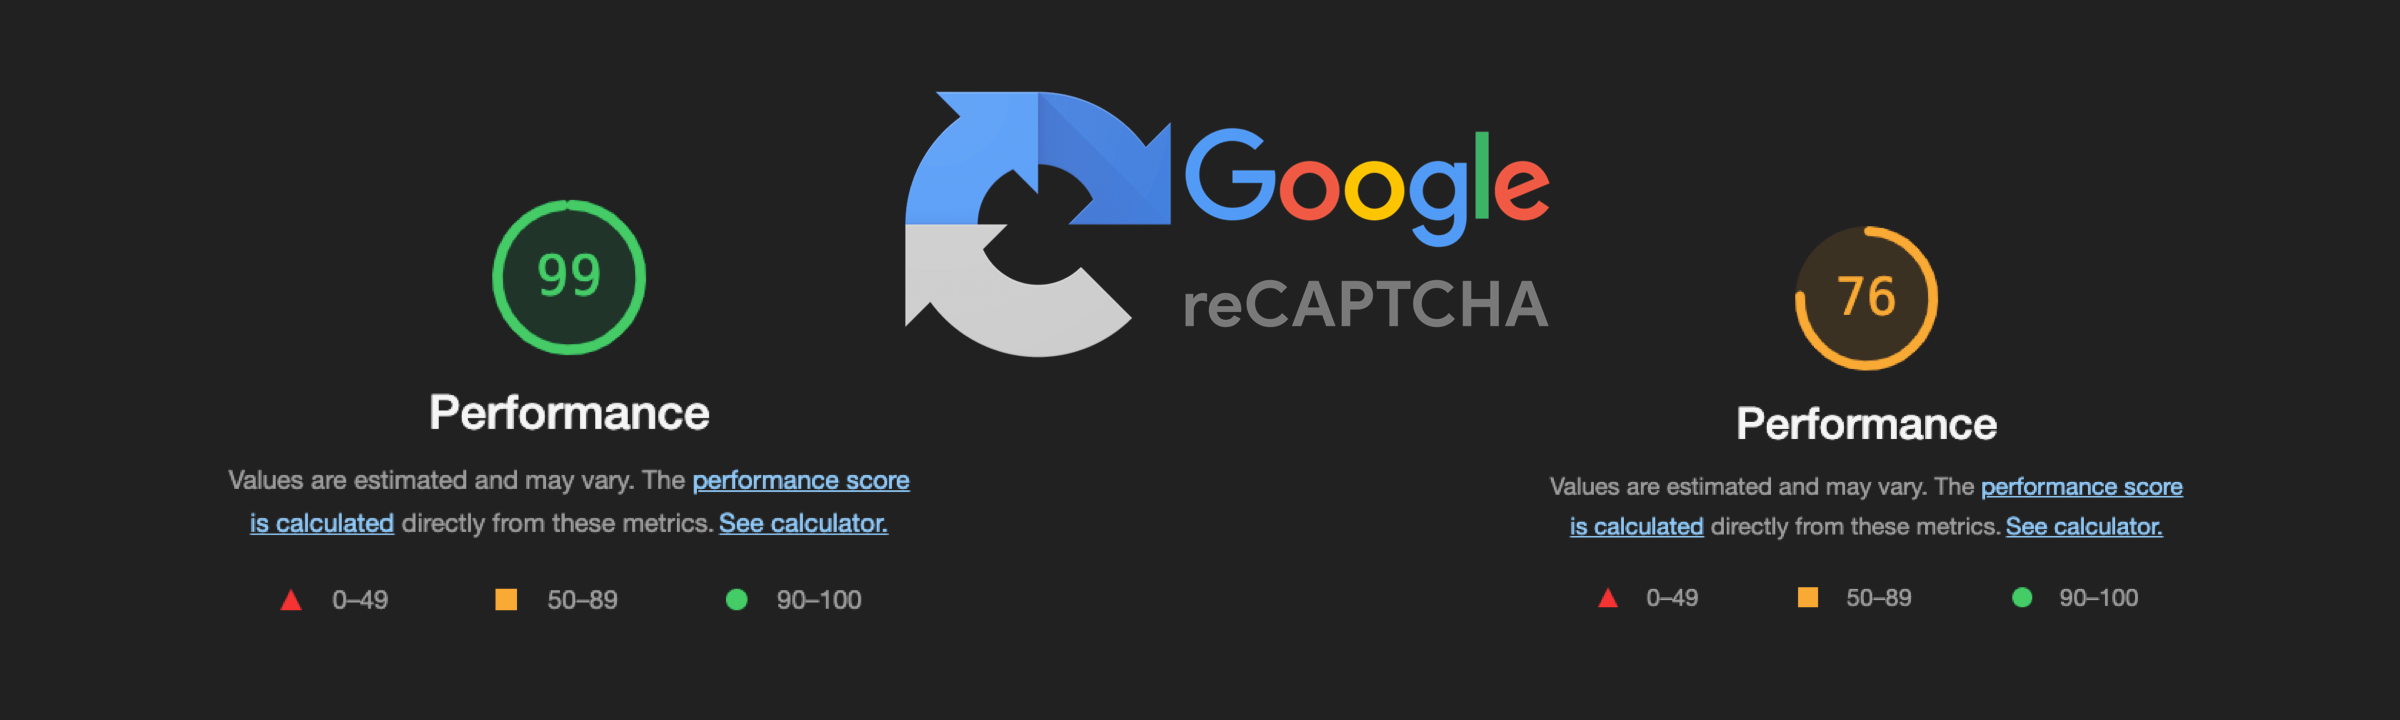
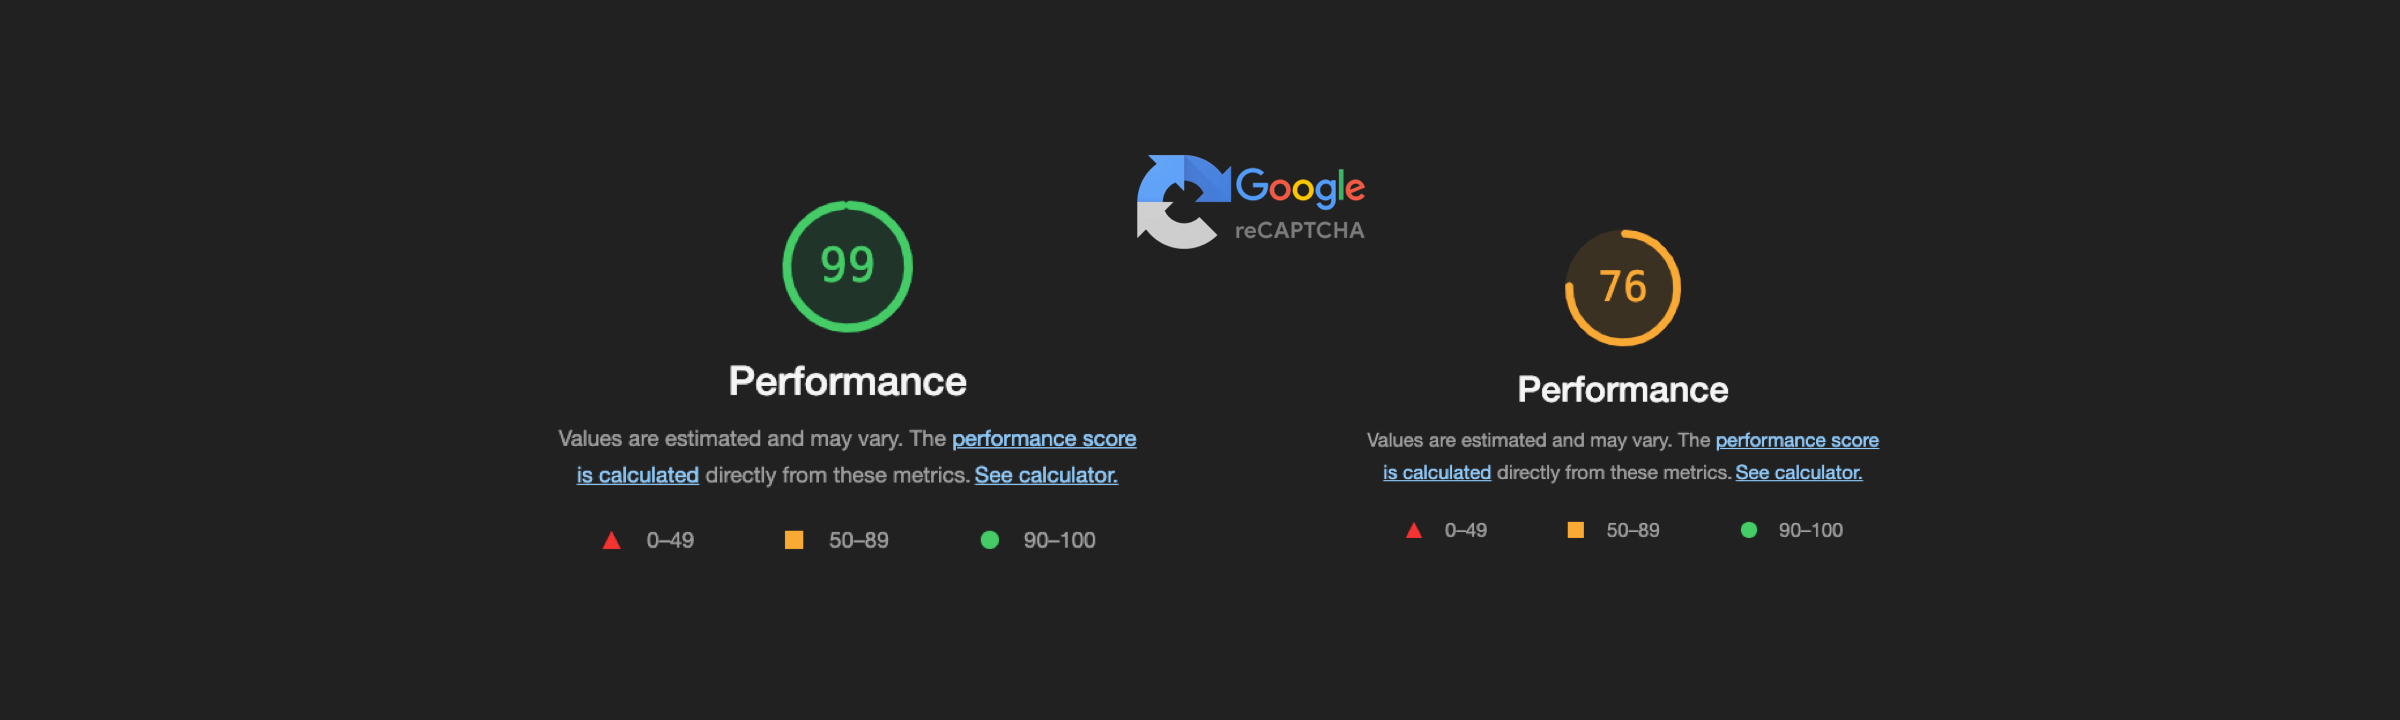
refined new post

diff --git a/_posts/2022-10-13-recaptcha-performance-analyses.md b/_posts/2022-10-13-recaptcha-performance-analyses.md
@@ -3,14 +3,14 @@ layout: post
 title:  "Does reCaptcha slow down your website?"
 author: "Onar A."
 image: /assets/posts/recaptcha/recaptcha-meta.png
-tags: [reCaptcha]
+tags: [reCaptcha, contact_form]
 
 
 description: "Let's look at how reCaptcha slows down your website and what you can do about it. Performance Analyses & Alternatives"
 # modified: 
 ---
 <center>
-<img width="772" alt="Lighthouse performance results" src="/blog/assets/posts/recaptcha/recaptcha-meta.png">
+<img width="772" alt="Lighthouse performance results" src="/blog/assets/posts/recaptcha/recaptcha-header.png">
 </center>
 <br/>
 
@@ -41,16 +41,15 @@ Using the [Lighthouse](https://web.dev/performance-scoring/) tool, we will evalu
 
 As soon as we integrate reCaptcha and setup it, we immediately notice a rise in network queries and data transfers. 
 
+|  | # of network requests | Compressed transferred data | Uncompressed transferred data | Page Loaded In |
+|---|---|---|---|---|
+| Before reCaptcha | 5 | 35.6 kB | 37.3 kB | 285 ms |
+| After reCaptcha | 13 | 565 kB | 1.3 MB | 1.56 seconds |
+| **an increase of** | **160%** | **1487.08%** | **3385.25%** | **447.37%** |
 
-|                  	| Number of network requests 	| Compressed transferred data 	| Uncompressed transferred data 	| Page Loaded In             	|
-|------------------	|----------------------------	|-----------------------------	|-------------------------------	|----------------------------	|
-| Before reCaptcha 	| 5                          	| 35.6 kB                     	| 37.3 kB                       	| 285 ms                     	|
-| After reCaptcha  	| 13                         	| 565 kB                      	| 1.3 MB                        	| 1.56 seconds               	|
-|                  	| **an increase of 160%**    	| **an increase of 1487.08%** 	| **an increase of 3385.25%**   	| **an increase of 447.37%** 	|
-
-
+- **# of network requests** : The number of network requests.
 - **Compressed transferred data** : The compressed size of all uploaded & downloaded resources.
-- **Uncompressed transferred data** : The uncompressed size of all uploaded & downloaded resources. 
+- **Uncompressed transferred data** : The uncompressed size of all uploaded & downloaded resources.
 
 The browser first downloads compressed data, then decompresses them before using them to process and display relevant details on the page. 
 
